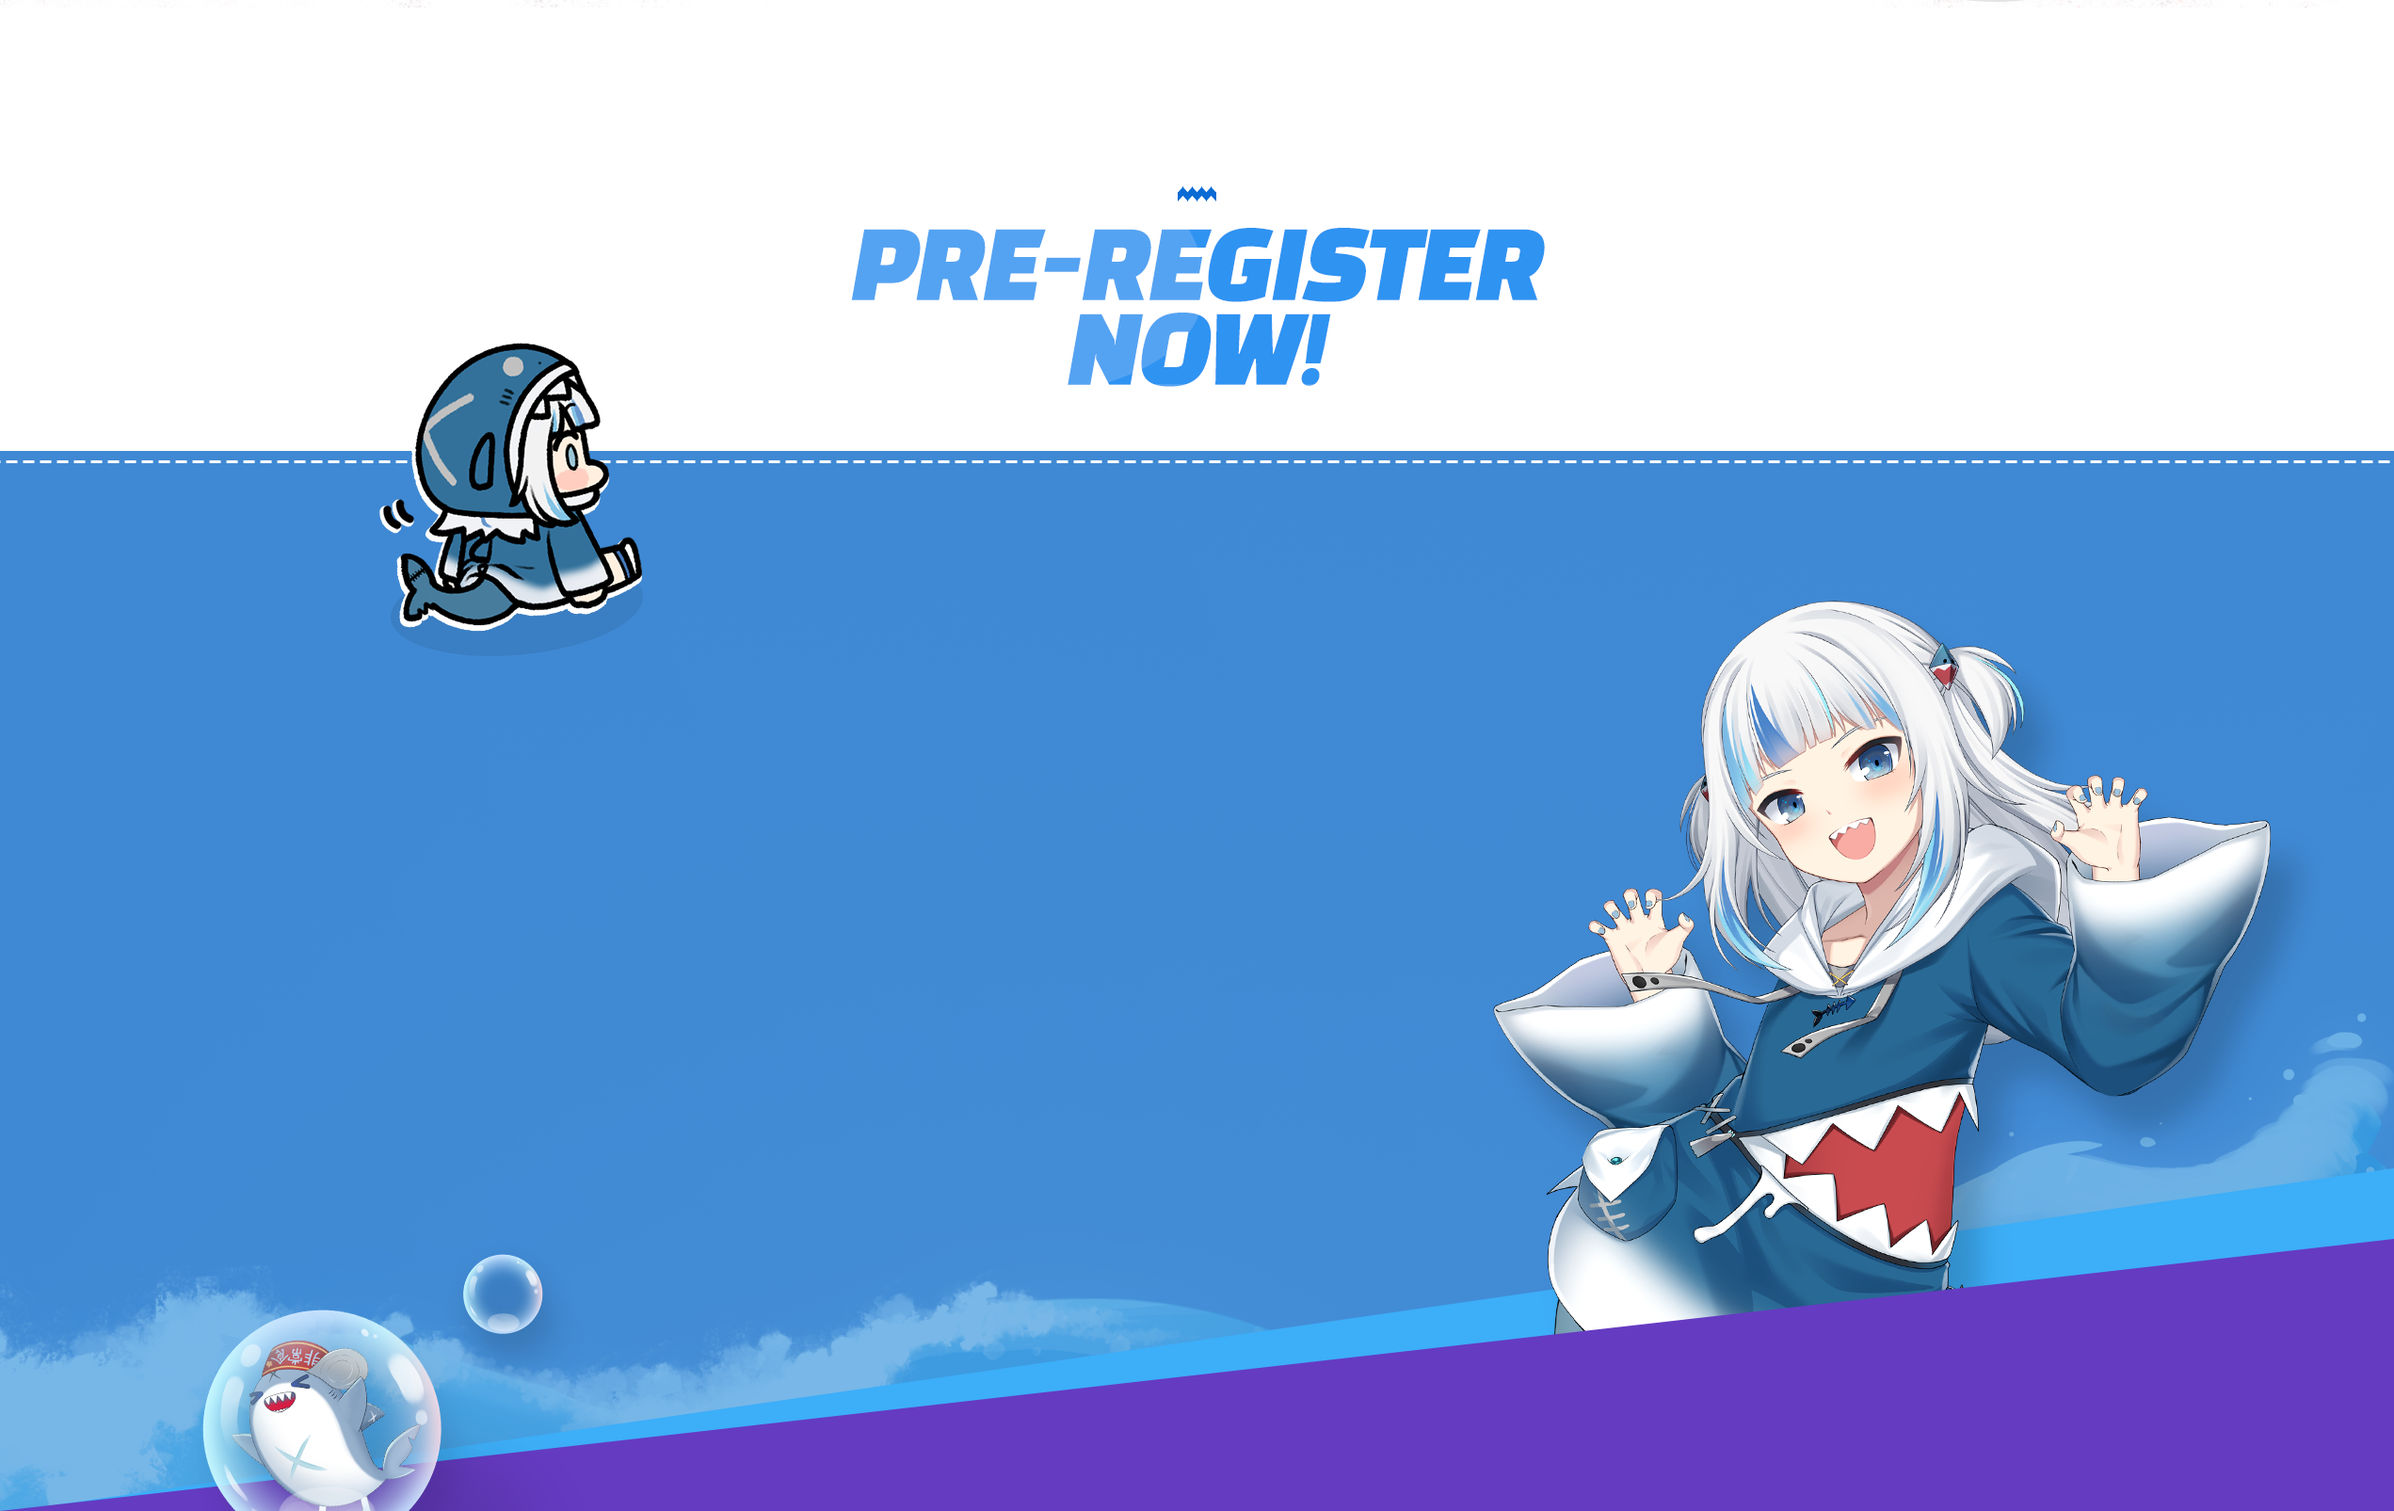
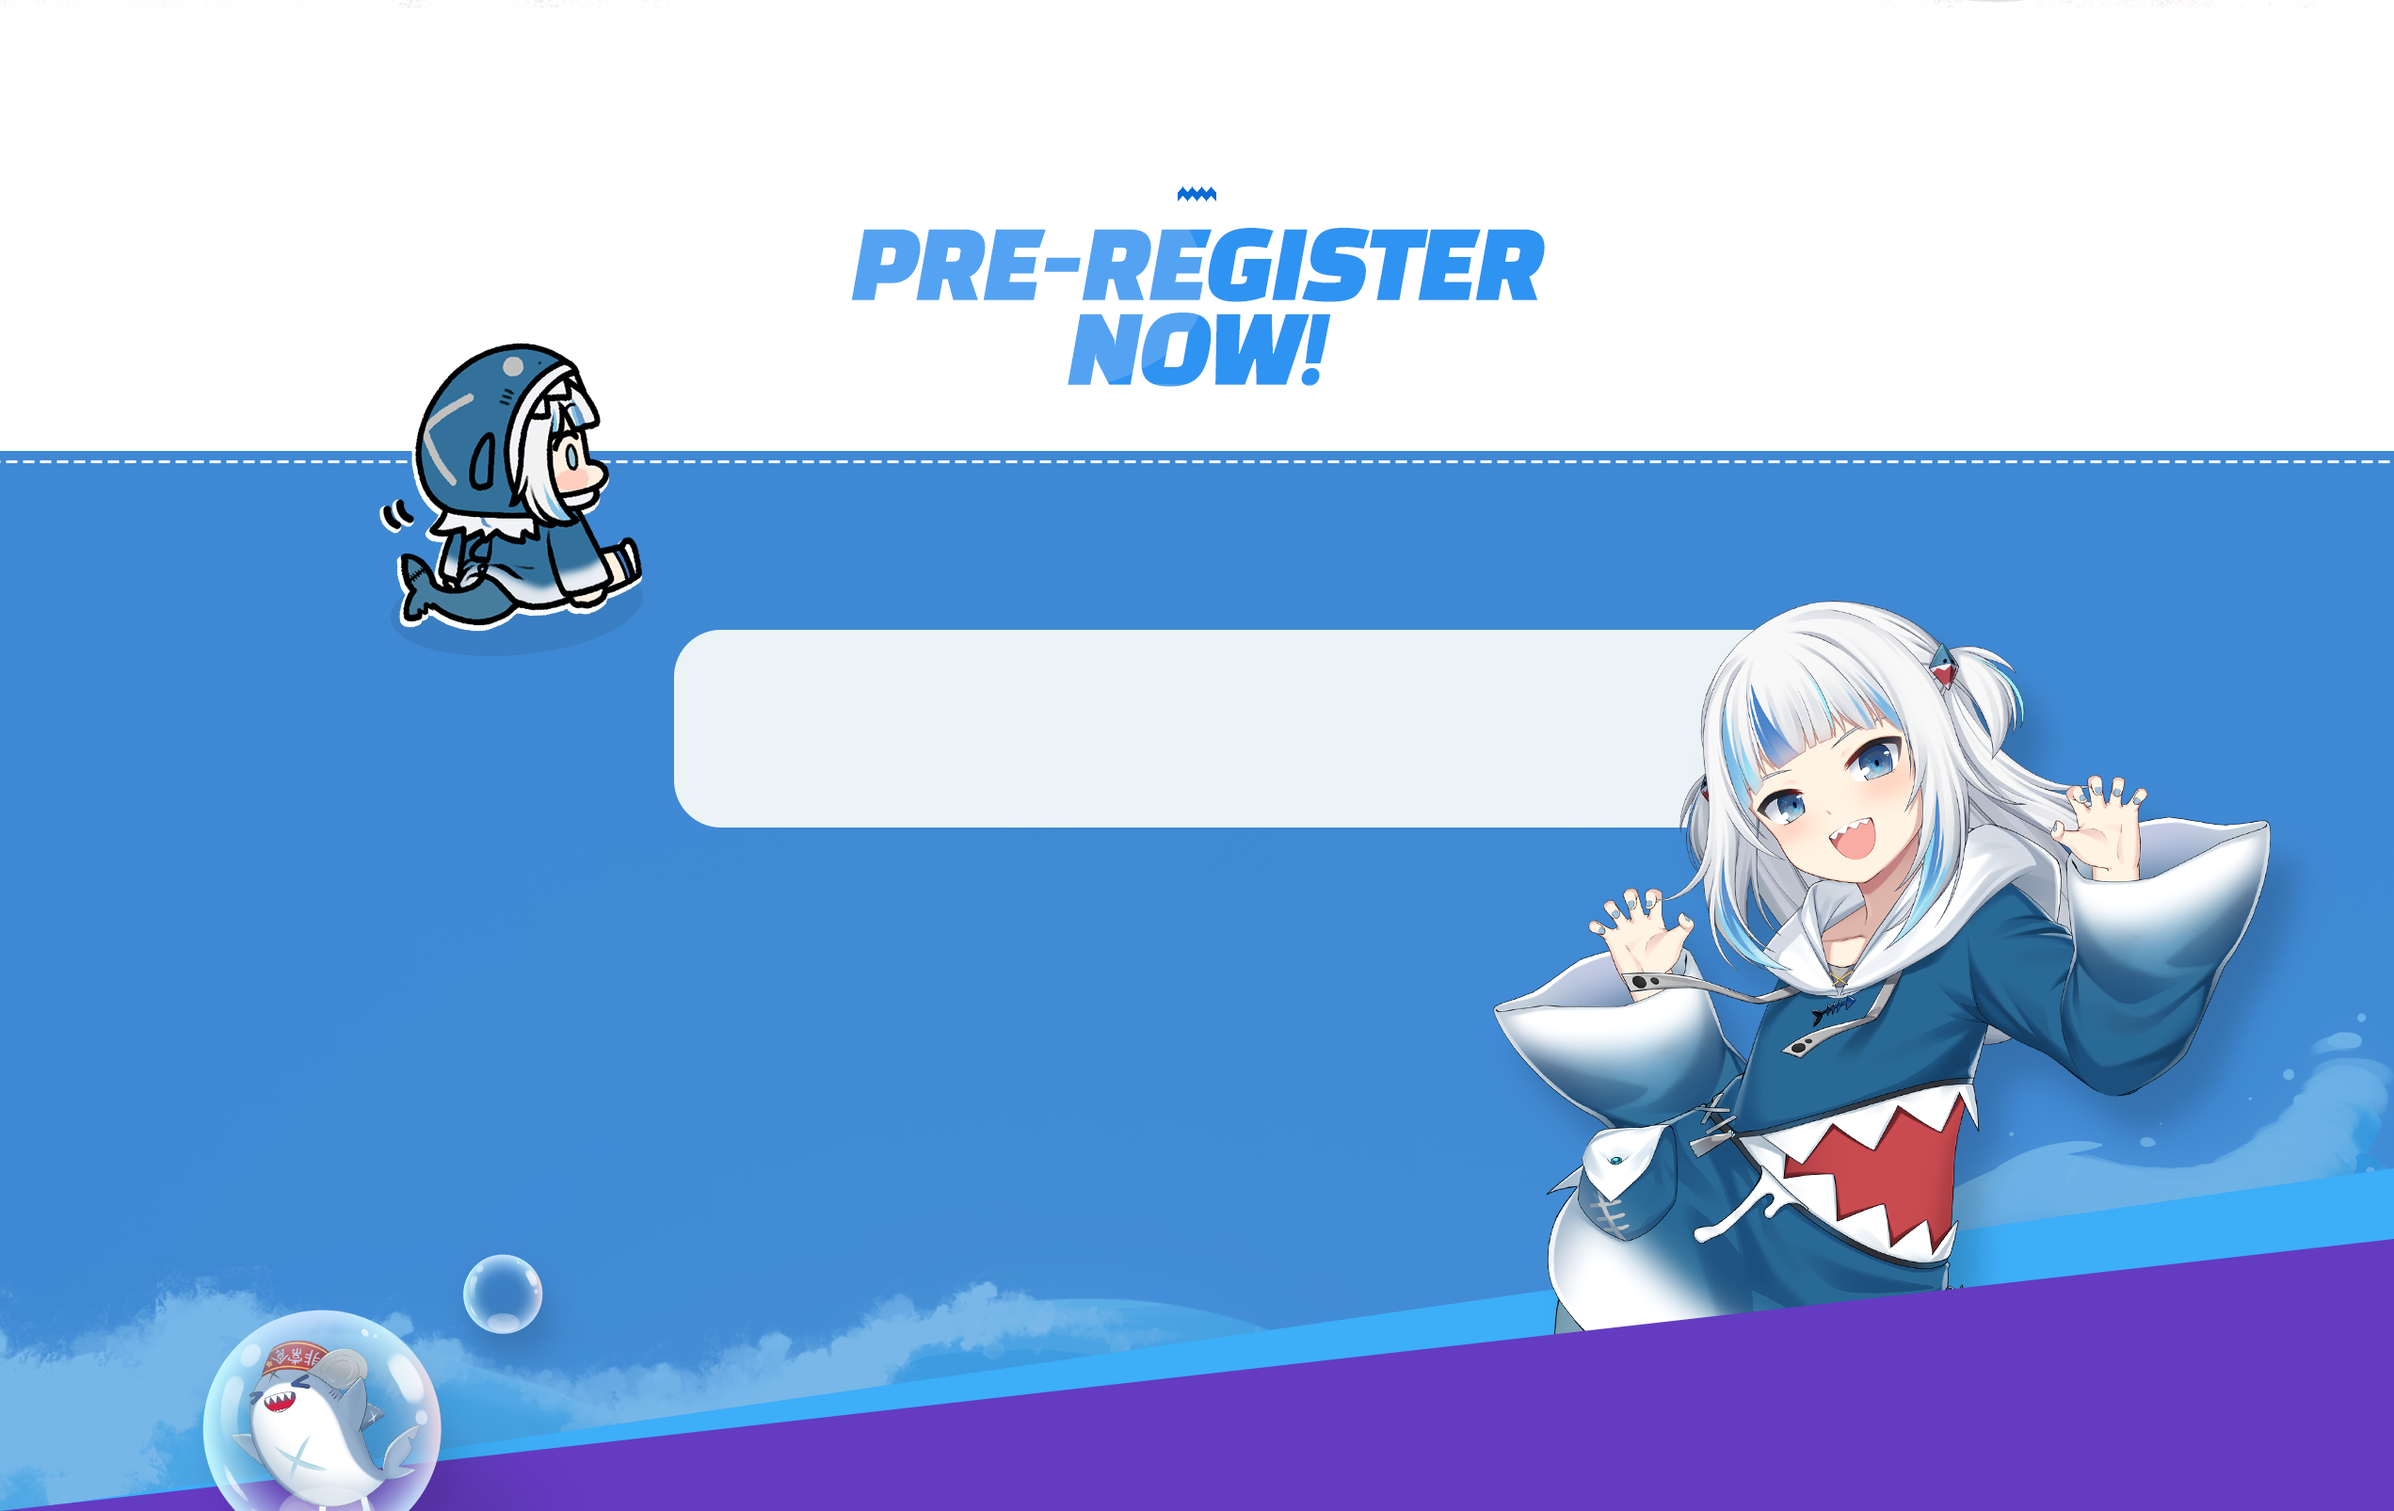
form 영역 완료

Changed region(s): [[0.2796, 0.405, 0.7456, 0.5607]]

diff --git a/resources/css/style.css b/resources/css/style.css
@@ -25,6 +25,22 @@ html {scroll-behavior: smooth;}
 .main_nav .nav_items a {display:inline-block;padding:10px 20px;font-size:20px;font-weight:bold;color:#fff;text-decoration:none;}
 
 
-.main_form {display:flex;justify-content:center;font-size:0;overflow:hidden;max-width:2543px;margin:0 auto;}
+.main_form {display:flex;justify-content:center;font-size:0;overflow:hidden;max-width:2543px;margin:0 auto;height:1605px;background:url(../img/main_form_bg.png) 50% 0 no-repeat;}
+
+.main_form form {margin-top:550px;}
+.main_form .form_input input {width:1196px;border:5px solid #020507;border-radius:30px;margin-left:85px;height:87px;box-sizing:border-box;}
+.main_form .form_agree {margin-top:77px;margin-left:145px;}
+.main_form .form_agree .agree_item input[type="checkbox"] {display:none;}
+.main_form .form_agree .agree_item label {display:inline-block;line-height:60px;font-size:23px;vertical-align:middle;cursor:pointer;}
+.main_form .form_agree .agree_item label span {display:inline-block;border-bottom:2px solid #e2edf2;line-height:50px;color:#999999;vertical-align:middle;}
+.main_form .form_agree .agree_item label a {display:inline-block;color:#6bacf0;text-decoration:none;}
+.main_form .form_agree .agree_item label a:hover {text-decoration:underline;}
+.main_form .form_agree .agree_item label:before {content:"";margin-right:20px;width:50px;height:50px;display:inline-block;background:url(../img/form_checkbox.png) 0 0 no-repeat;vertical-align:middle;}
+.main_form .form_agree .agree_item input[type="checkbox"]:checked + label:before {background-image:url(../img/form_checkbox_o.png);}
+
+.main_form .form_btn {margin-top:80px;margin-left:68px;}
+.main_form .form_btn button {border:0 none;width:785px;height:203px;background:transparent url(../img/main_form_btn.png) 0 0 no-repeat;cursor:pointer;}
+.main_form .form_btn button:hover {background-image:url(../img/main_form_btn_o.png);}
+
 .main_rewards {display:flex;justify-content:center;font-size:0;overflow:hidden;max-width:2543px;margin:0 auto;}
 .main_media {display:flex;justify-content:center;font-size:0;overflow:hidden;max-width:2543px;margin:0 auto;}

diff --git a/index.html b/index.html
@@ -25,7 +25,16 @@
         </div>
     </div>
     <div class="main_form" id="Form">
-        <img src="resources/img/main_form_bg.png">
+        <form>
+            <div class="form_input"><input type="text"></div>
+            <div class="form_agree">
+                <div class="agree_item"><input type="checkbox" id="agree_1" checked><label for="agree_1"><span>I have read and acknowledge the <a href="#">Privacy Policy</a> and <a href="#">Terms of Service</a>.</span></label></div>
+                <div class="agree_item"><input type="checkbox" id="agree_2"><label for="agree_2"><span>I agree to receive the news and promotional offers by email.</span></label></div>
+            </div>
+            <div class="form_btn">
+                <button type="submit"></button>
+            </div>
+        </form>
     </div>
     <div class="main_rewards" id="Reward">
         <img src="resources/img/main_rewards_bg.png">
